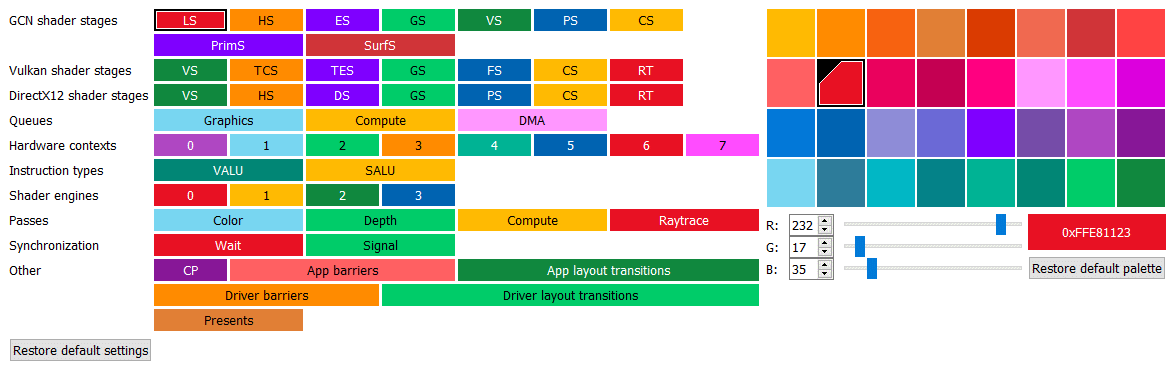
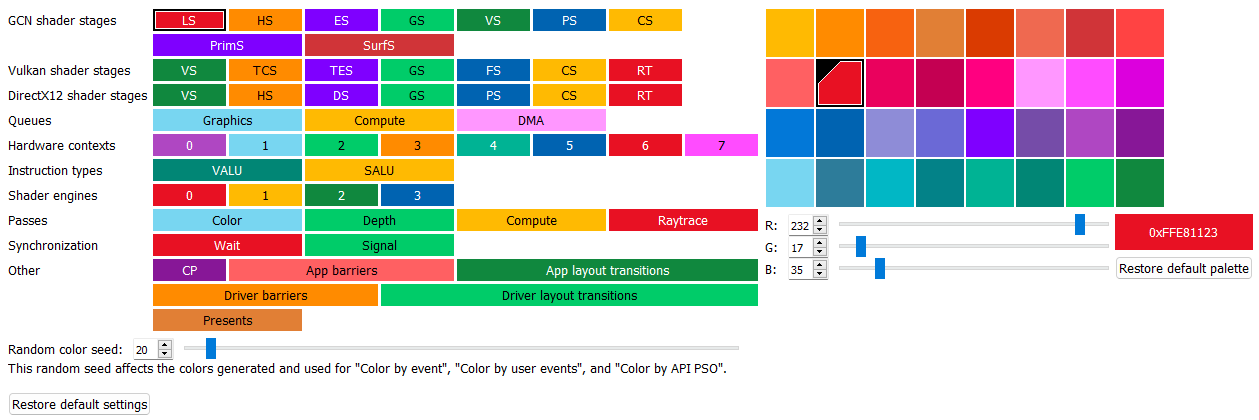
Update documentation for V1.13.1

diff --git a/docs/source/conf.py b/docs/source/conf.py
@@ -54,9 +54,9 @@ author = u'AMD Developer Tools'
 # built documents.
 #
 # The short X.Y version.
-version = u'1.13.0'
+version = u'1.13.1'
 # The full version, including alpha/beta/rc tags.
-release = u'1.13.0'
+release = u'1.13.1'
 
 # The language for content autogenerated by Sphinx. Refer to documentation
 # for a list of supported languages.

diff --git a/docs/source/index.rst b/docs/source/index.rst
@@ -74,6 +74,8 @@ Graphics APIs, RDNA and GCN hardware, and operating systems
 
 -  Ubuntu 20.04 LTS (Vulkan only)
 
+-  Ubuntu 22.04 LTS (Vulkan only)
+
 Compute APIs, RDNA and GCN hardware, and operating systems
 ----------------------------------------------------------
 
@@ -128,17 +130,17 @@ How to load a profile
 
 There are a few ways to load a profile into RGP.
 
-1) Use the “File/Open profile” pull down menu item, or the
-   “File/Recent profiles” pull down menu item.
+1) Use the "File/Open profile" pull down menu item, or the
+   "File/Recent profiles" pull down menu item.
 
 .. image:: media_rgp/rgp_file_load.png
 
 .. image:: media_rgp/rgp_file_recent.png
 
-2) Go to the “Welcome” view and click on the “Open a Radeon GPU
-   Profile…” link.
+2) Go to the "Welcome" view and click on the "Open a Radeon GPU
+   Profile…" link.
 
-3) Go to the “Welcome” view and click on a profile that you have
+3) Go to the "Welcome" view and click on a profile that you have
    previously loaded in the Recent list.
 
 .. image:: media_rgp/rgp_welcome.png
@@ -154,7 +156,7 @@ There are a few ways to load a profile into RGP.
 
 5) Load a profile into a new instance of the **Radeon GPU Profiler**
    from the **Radeon Developer Panel**. Select a profile in the list and
-   click on “Open profile”.
+   click on "Open profile".
 
 .. image:: media_rgp/rdp_open_profile.png
 
@@ -885,14 +887,14 @@ The main functions provided by AGS for marking applications are:
   agsDriverExtensionsDX12_PopMarker;
   agsDriverExtensionsDX12_SetMarker;
 
-The below example shows how a draw call can be enclosed within a “Draw
-Particles” user marker, followed by inserting a marker.
+The below example shows how a draw call can be enclosed within a "Draw
+Particles" user marker, followed by inserting a marker.
 ::
 
   // Push a marker
   agsDriverExtensionsDX12_PushMarker(m_AGSContext, pCommandList, "DrawParticles");
 
-  // This draw call will be in the “Draw Particles” User Marker
+  // This draw call will be in the "Draw Particles" User Marker
   pCommandList->DrawInstanced(ParticleCount, 1, 0, 0);
 
   // Pop a marker
@@ -929,8 +931,8 @@ Viewing User Markers
 --------------------
 
 The RGP file captured for a frame of the above application contains many
-user markers. The user markers can be seen in the “Event timing” and
-“Pipeline state” views when you choose the “Group by User Marker” option
+user markers. The user markers can be seen in the "Event timing" and
+"Pipeline state" views when you choose the "Group by User Marker" option
 as shown below.
 
 .. image:: media_rgp/rgp_user_markers_1.png

diff --git a/docs/source/wavefront_occupancy.rst b/docs/source/wavefront_occupancy.rst
@@ -27,7 +27,7 @@ desired region as shown below.
 .. image:: media_rgp/rgp_wavefront_occupancy_3.png
 
 You can zoom into the region by selecting Ctrl + Z, or by clicking on
-“Zoom to selection” (result shown below).
+"Zoom to selection" (result shown below).
 
 .. image:: media_rgp/rgp_wavefront_occupancy_4.png
 
@@ -378,8 +378,8 @@ timeline view and navigate to the Event timing, Pipeline state,
 or Instruction timing pane, or to one of the panes in the Overview tab.
 The selected event or overlay will be shown in the chosen view.
 
-In addition, the user can zoom into an event using the “Zoom to
-selection” option from this context menu.
+In addition, the user can zoom into an event using the "Zoom to
+selection" option from this context menu.
 
 Below is a screenshot of what the right-click context menu looks like.
 

diff --git a/docs/source/settings.rst b/docs/source/settings.rst
@@ -29,6 +29,13 @@ This pane allows users to thoroughly customize those colors.
 
 .. image:: media_rgp/rgp_themes_and_colors_settings.png
 
+**NOTE**: There are some coloring modes in RGP that use randomly-generated colors. These
+are the **Color by event**, **Color by API PSO** and **Color by user events** modes. In
+some situations, the randomly-generated colors can cause two very similar colors to be
+displayed near each other in the user interface, making it hard to distinguish between
+the similar colors. In order to alleviate this issue, the **Random color seed** setting
+allows the random seed to be altered, generating a different set of random colors.
+
 Keyboard shortcuts
 ------------------
 

diff --git a/README.md b/README.md
@@ -43,6 +43,7 @@ In order to use the latest features of RGP, it is strongly recommended that user
 * Windows® 11
 * Ubuntu 18.04 LTS (Vulkan only)
 * Ubuntu 20.04 LTS (Vulkan only)
+* Ubuntu 22.04 LTS (Vulkan only)
 
 
 ## Compute APIs, RDNA and GCN hardware, and operating systems
